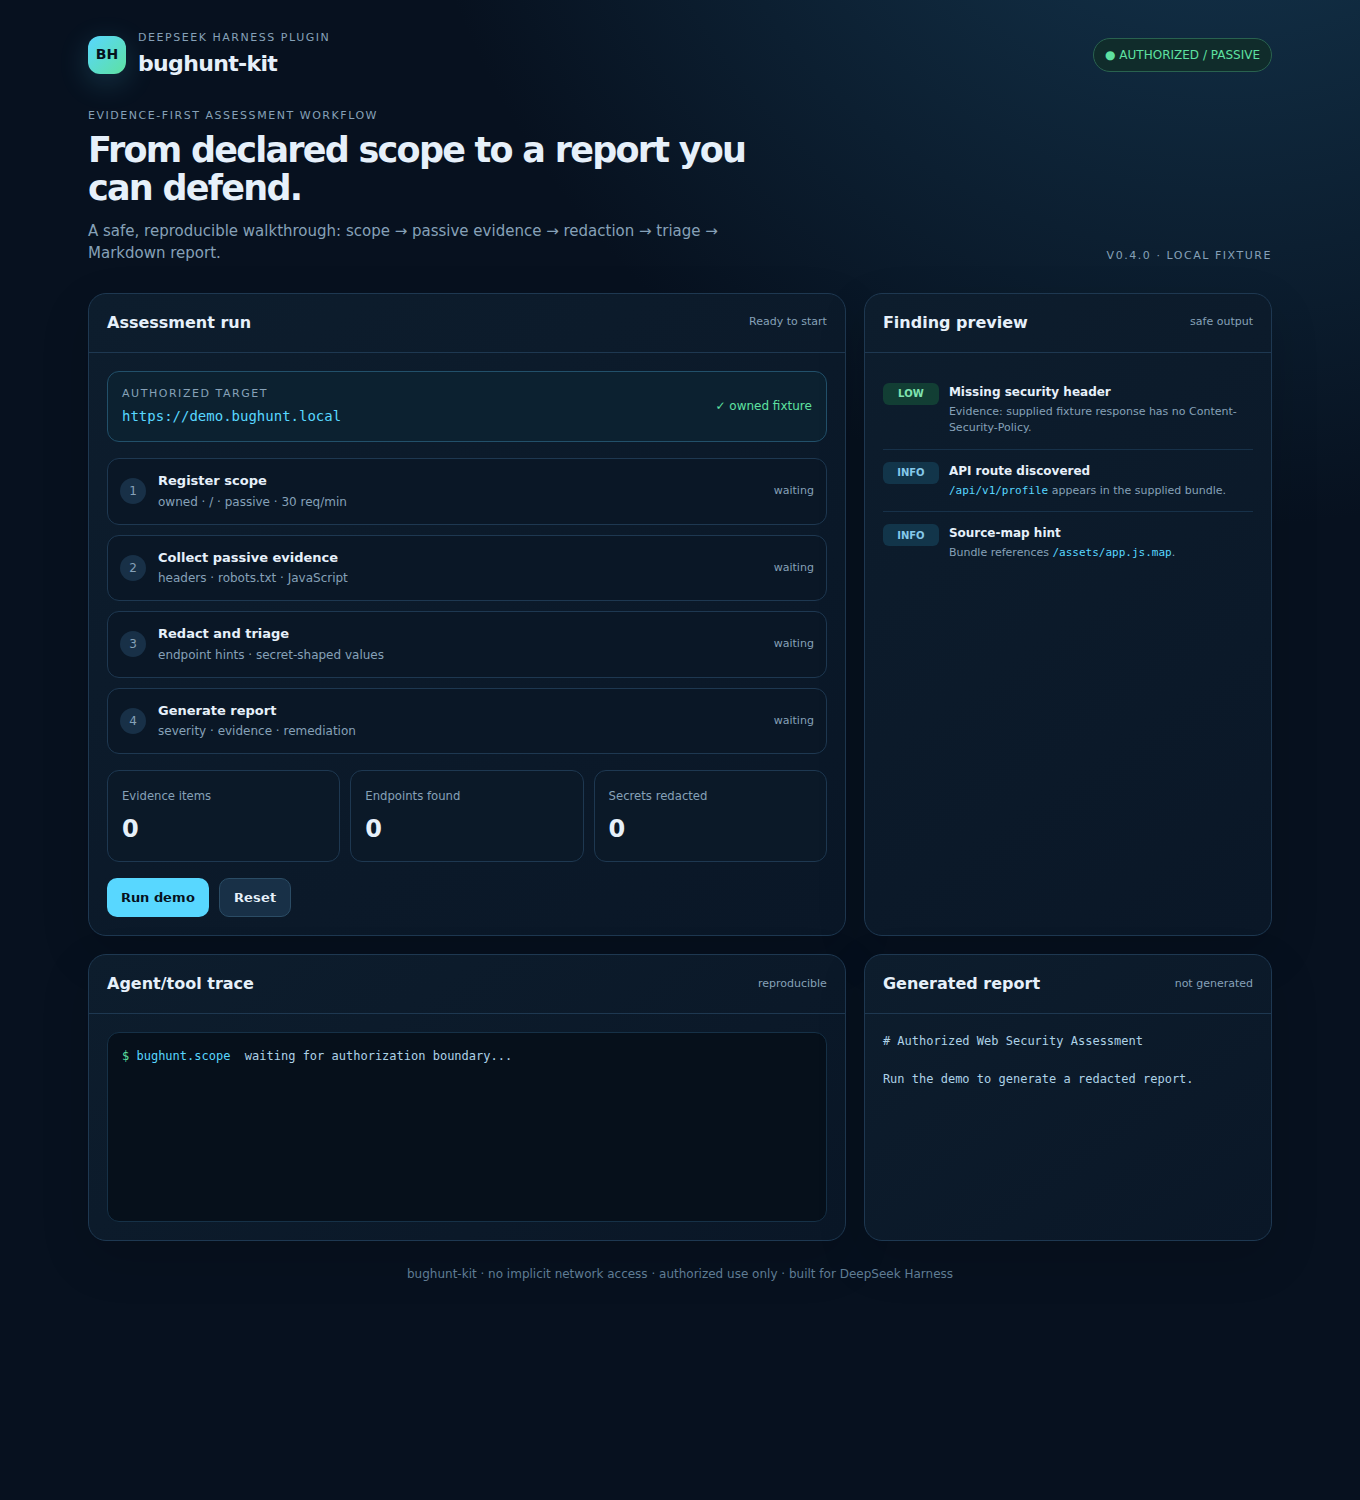
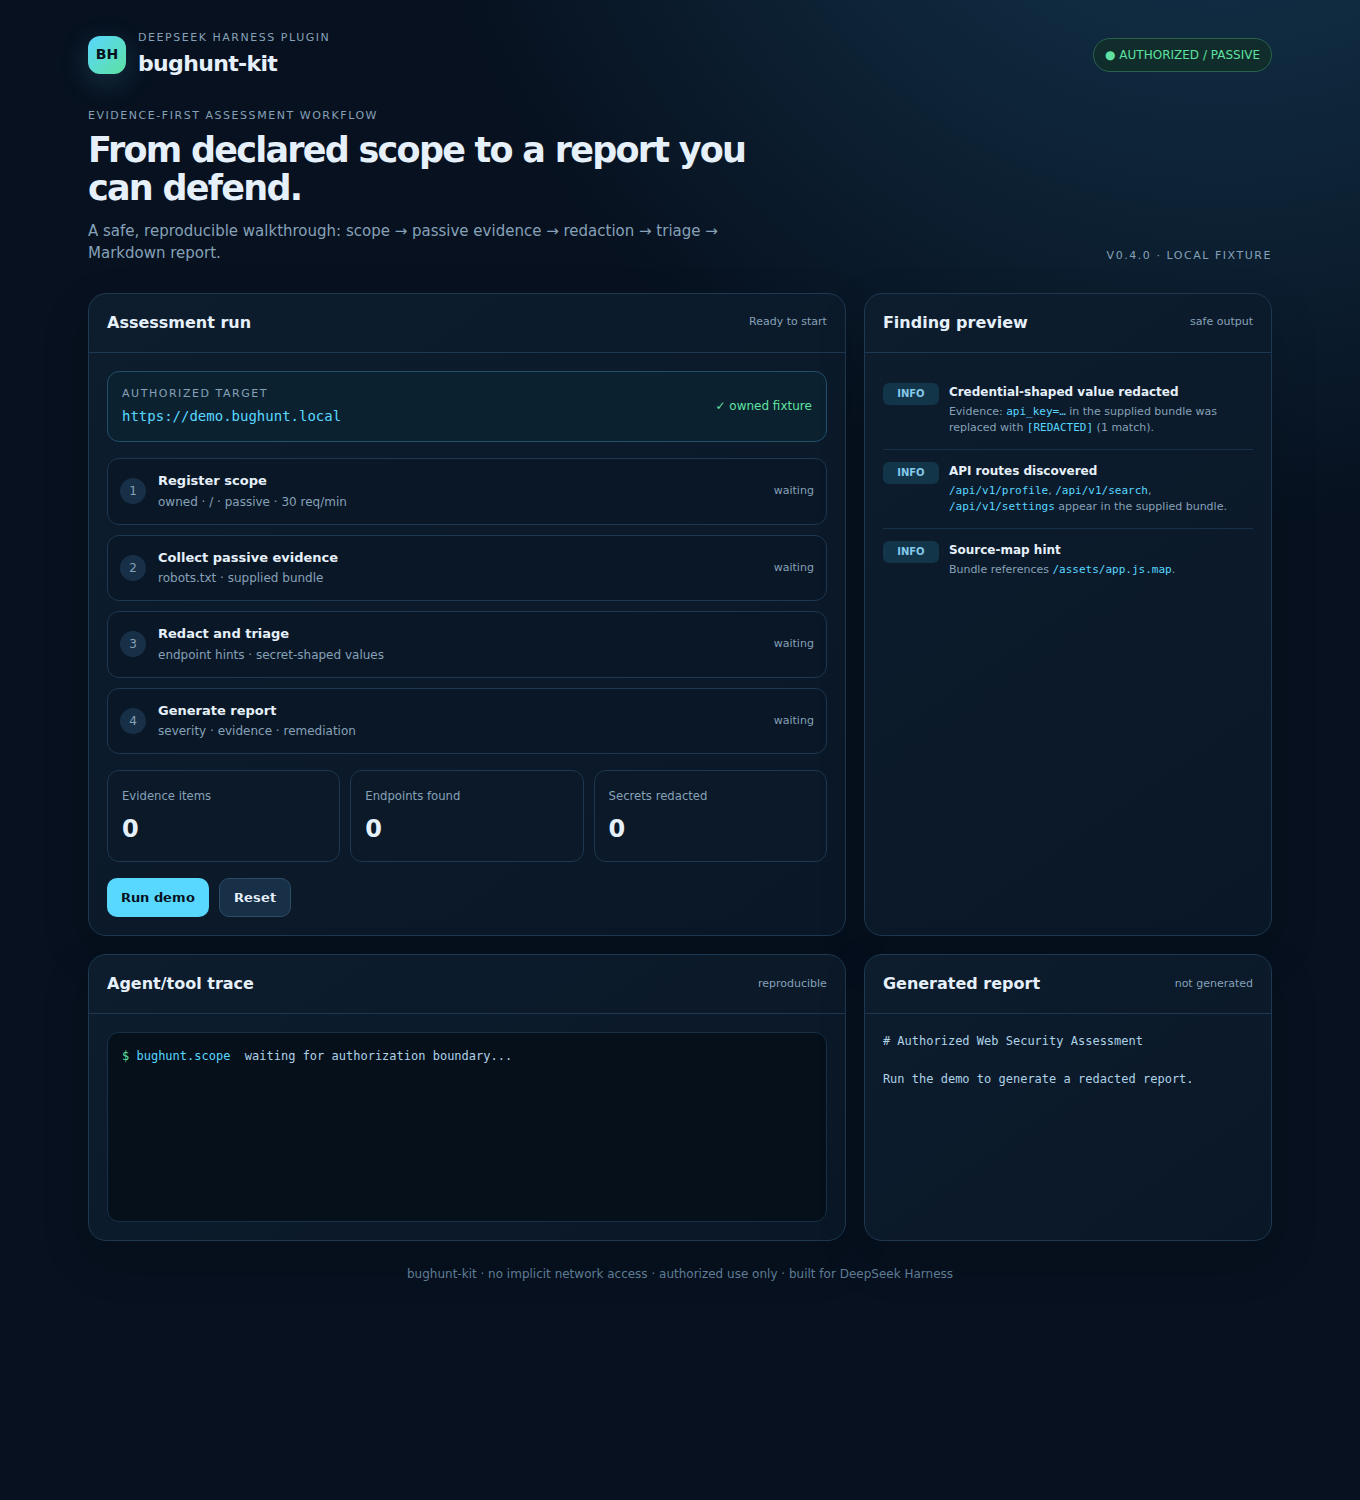
fix: make demo fixture claims match real tool output
- Add real credential-shaped pattern (api_key=...) and third endpoint (/api/v1/settings) to fixture
- analyze-js now genuinely returns 3 endpoints, 1 source-map, 1 redaction
- Replace invented LOW header finding with truthful INFO redaction finding
- Fix collect step copy (robots + bundle, not headers)

Changed region(s): [[0.6485, 0.2453, 0.8956, 0.3987], [0.1235, 0.368, 0.2471, 0.3987], [0.6485, 0.2453, 0.6794, 0.276]]

diff --git a/demo/index.html b/demo/index.html
@@ -37,14 +37,14 @@
         <div class="scope"><div><div class="eyebrow">Authorized target</div><div class="target">https://demo.bughunt.local</div></div><div class="auth">✓ owned fixture</div></div>
         <div class="steps">
           <div class="step" data-step="1"><div class="dot">1</div><div class="step-copy"><strong>Register scope</strong><span>owned · / · passive · 30 req/min</span></div><div class="status">waiting</div></div>
-          <div class="step" data-step="2"><div class="dot">2</div><div class="step-copy"><strong>Collect passive evidence</strong><span>headers · robots.txt · JavaScript</span></div><div class="status">waiting</div></div>
+          <div class="step" data-step="2"><div class="dot">2</div><div class="step-copy"><strong>Collect passive evidence</strong><span>robots.txt · supplied bundle</span></div><div class="status">waiting</div></div>
           <div class="step" data-step="3"><div class="dot">3</div><div class="step-copy"><strong>Redact and triage</strong><span>endpoint hints · secret-shaped values</span></div><div class="status">waiting</div></div>
           <div class="step" data-step="4"><div class="dot">4</div><div class="step-copy"><strong>Generate report</strong><span>severity · evidence · remediation</span></div><div class="status">waiting</div></div>
         </div>
         <div class="metrics"><div class="metric"><small>Evidence items</small><b id="evidence">0</b></div><div class="metric"><small>Endpoints found</small><b id="endpoints">0</b></div><div class="metric"><small>Secrets redacted</small><b id="redacted">0</b></div></div>
         <div class="actions"><button id="run">Run demo</button><button id="reset" class="secondary">Reset</button></div>
       </div></article>
-      <aside class="card"><div class="card-head"><h2>Finding preview</h2><span class="status">safe output</span></div><div class="card-body"><div class="finding"><div class="severity low">LOW</div><div><strong>Missing security header</strong><p>Evidence: supplied fixture response has no Content-Security-Policy.</p></div></div><div class="finding"><div class="severity info">INFO</div><div><strong>API route discovered</strong><p><code>/api/v1/profile</code> appears in the supplied bundle.</p></div></div><div class="finding"><div class="severity info">INFO</div><div><strong>Source-map hint</strong><p>Bundle references <code>/assets/app.js.map</code>.</p></div></div></div></aside>
+      <aside class="card"><div class="card-head"><h2>Finding preview</h2><span class="status">safe output</span></div><div class="card-body"><div class="finding"><div class="severity info">INFO</div><div><strong>Credential-shaped value redacted</strong><p>Evidence: <code>api_key=…</code> in the supplied bundle was replaced with <code>[REDACTED]</code> (1 match).</p></div></div><div class="finding"><div class="severity info">INFO</div><div><strong>API routes discovered</strong><p><code>/api/v1/profile</code>, <code>/api/v1/search</code>, <code>/api/v1/settings</code> appear in the supplied bundle.</p></div></div><div class="finding"><div class="severity info">INFO</div><div><strong>Source-map hint</strong><p>Bundle references <code>/assets/app.js.map</code>.</p></div></div></div></aside>
       <article class="card"><div class="card-head"><h2>Agent/tool trace</h2><span class="status">reproducible</span></div><div class="card-body"><div class="terminal"><pre id="trace"><span class="prompt">$</span> <span class="cmd">bughunt.scope</span>  waiting for authorization boundary...</pre></div></div></article>
       <article class="card"><div class="card-head"><h2>Generated report</h2><span id="report-status" class="status">not generated</span></div><div class="card-body"><pre id="report"># Authorized Web Security Assessment
 
@@ -58,9 +58,9 @@ Run the demo to generate a redacted report.</pre></div></article>
     function setStep(n, state, text) { const el = steps[n-1]; el.className = `step ${state}`; el.querySelector('.status').textContent = text; if(state === 'done') el.querySelector('.dot').textContent = '✓'; }
     async function run() { $('#run').disabled = true; $('#run-status').textContent = 'Running safely...';
       setStep(1,'active','running'); trace.innerHTML='<span class="prompt">$</span> <span class="cmd">bughunt.scope</span>  validating owned fixture...'; await sleep(650); setStep(1,'done','complete'); $('#evidence').textContent='1';
-      setStep(2,'active','collecting'); trace.innerHTML+='<br><span class="prompt">$</span> <span class="cmd">passive evidence</span>  headers + robots + bundle'; await sleep(750); setStep(2,'done','complete'); $('#evidence').textContent='4';
+      setStep(2,'active','collecting'); trace.innerHTML+='<br><span class="prompt">$</span> <span class="cmd">passive evidence</span>  robots + supplied bundle'; await sleep(750); setStep(2,'done','complete'); $('#evidence').textContent='4';
       setStep(3,'active','redacting'); trace.innerHTML+='<br><span class="prompt">$</span> <span class="cmd">bughunt.analyze-js</span>  redacting credential-shaped values'; await sleep(750); setStep(3,'done','complete'); $('#endpoints').textContent='3'; $('#redacted').textContent='1';
-      setStep(4,'active','rendering'); trace.innerHTML+='<br><span class="prompt">$</span> <span class="cmd">bughunt.report</span>  writing Markdown output'; await sleep(750); setStep(4,'done','complete'); $('#report-status').textContent='generated'; $('#run-status').textContent='Complete'; $('#report').textContent='# Authorized Web Security Assessment\n\nTarget: https://demo.bughunt.local\nMode: passive\n\n## Findings\n\n- LOW: Missing security header\n- INFO: API route discovered\n- INFO: Source-map hint\n\nAll evidence was redacted before reporting.'; $('#run').disabled = false; }
+      setStep(4,'active','rendering'); trace.innerHTML+='<br><span class="prompt">$</span> <span class="cmd">bughunt.report</span>  writing Markdown output'; await sleep(750); setStep(4,'done','complete'); $('#report-status').textContent='generated'; $('#run-status').textContent='Complete'; $('#report').textContent='# Authorized Web Security Assessment\n\nTarget: https://demo.bughunt.local\nMode: passive\n\n## Findings\n\n- INFO: Credential-shaped value redacted (1 match)\n- INFO: API routes discovered (3)\n- INFO: Source-map hint\n\nAll evidence was redacted before reporting.'; $('#run').disabled = false; }
     function reset() { steps.forEach((_,i)=>setStep(i+1,'','waiting')); steps.forEach((el,i)=>el.querySelector('.dot').textContent=i+1); $('#evidence').textContent='0'; $('#endpoints').textContent='0'; $('#redacted').textContent='0'; $('#report-status').textContent='not generated'; $('#run-status').textContent='Ready to start'; trace.innerHTML='<span class="prompt">$</span> <span class="cmd">bughunt.scope</span>  waiting for authorization boundary...'; $('#report').textContent='# Authorized Web Security Assessment\n\nRun the demo to generate a redacted report.'; }
     $('#run').addEventListener('click', run); $('#reset').addEventListener('click', reset);
   </script>
